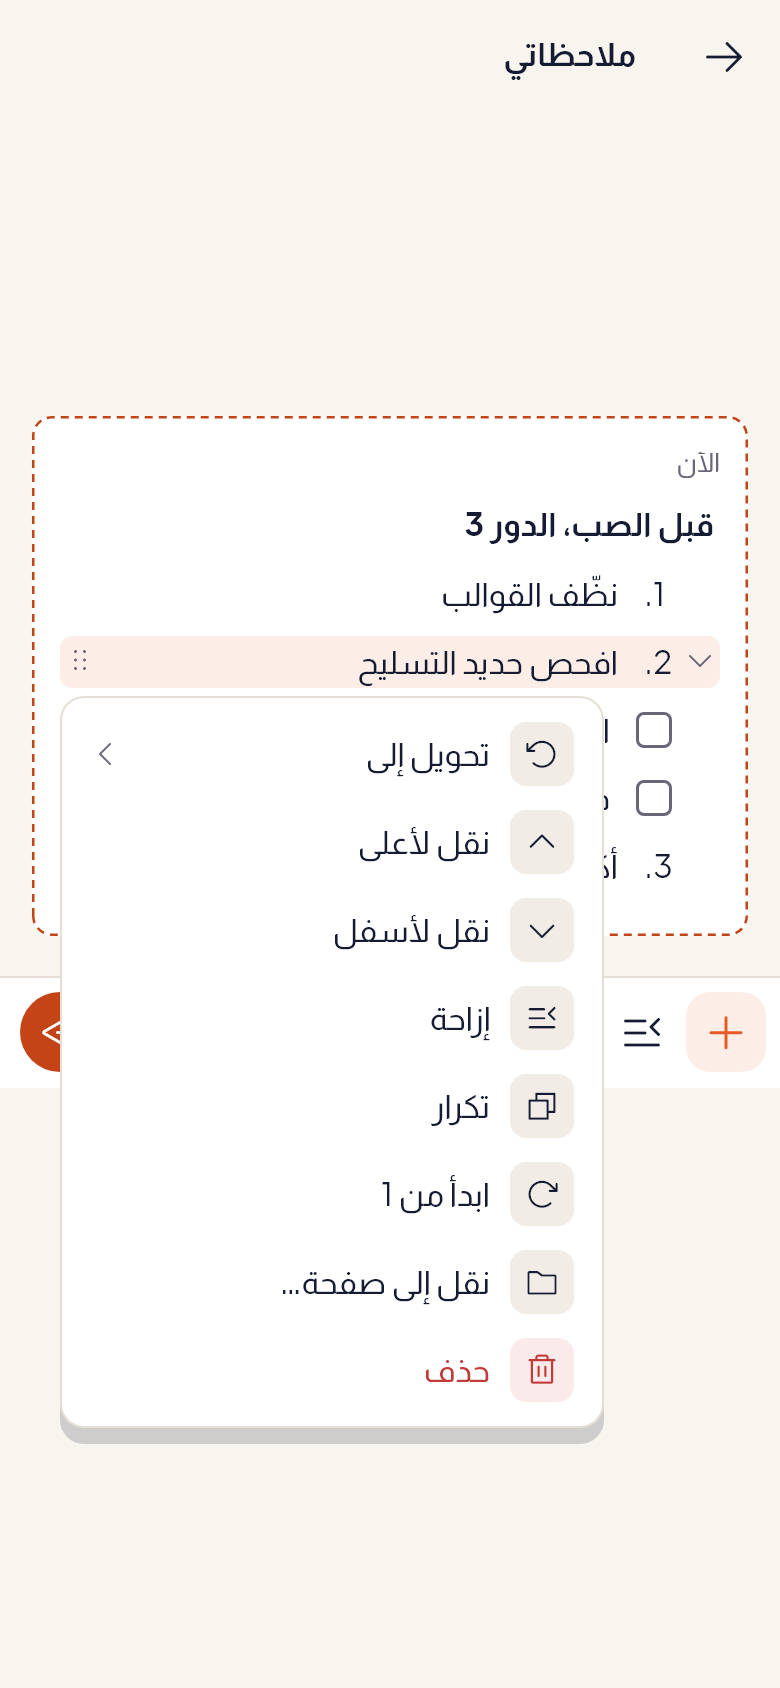
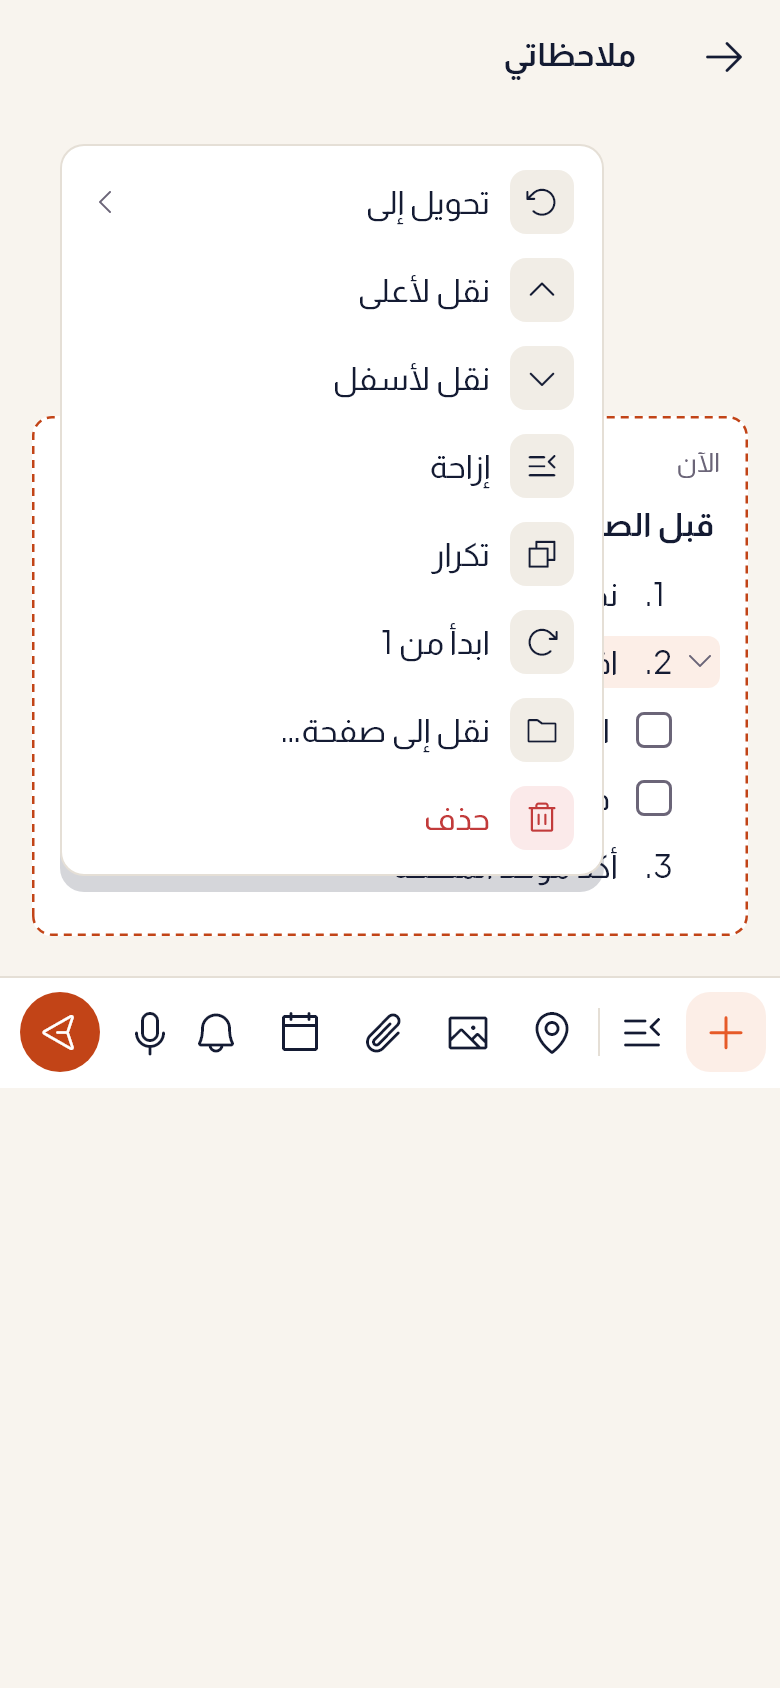
Review 100 bugs: refused entries come back as a new Draft; screenshot tests on the new rules (NBY1, NBY2, NBW5 re-shot, before/after); handoff and progress

diff --git a/test_screens/pg_test.dart b/test_screens/pg_test.dart
@@ -9,7 +9,6 @@ import 'dart:convert';
 
 import 'package:buildvibes/data/models/post_page.dart';
 import 'package:buildvibes/features/notebook/note_draft.dart';
-import 'package:buildvibes/features/notebook/note_page_editor.dart';
 import 'package:flutter/material.dart';
 import 'package:flutter_test/flutter_test.dart';
 import 'package:go_router/go_router.dart';
@@ -87,12 +86,43 @@ NoteDraft _pour(String lang) {
   );
 }
 
-/// The cursor at the end of the last line, as the keyboard puts it there.
-Future<void> _cursorLast(WidgetTester tester) async {
-  tester
-      .state<NotePageEditorState>(find.byType(NotePageEditor))
-      .focusBlock('t:pg-2');
+/// [chars] typed one by one in the field with the cursor.
+Future<void> _type(WidgetTester tester, String chars) async {
+  for (final ch in chars.characters) {
+    final field = tester
+        .widgetList<TextField>(find.byType(TextField))
+        .firstWhere((t) => t.focusNode?.hasFocus ?? false);
+    tester.testTextInput.enterText(field.controller!.text + ch);
+    await tester.pumpAndSettle();
+  }
+}
+
+/// PG2's entry typed on New entry (review 100 B3: it always starts a new
+/// entry): its title, then "1. " and two numbered lines, into Site A (the
+/// page the chip starts on).
+Future<void> _typePour(WidgetTester tester, String lang) async {
+  final pour = _pour(lang);
+  await tester.enterText(_key('note-title'), pour.title);
+  await tester.testTextInput.receiveAction(TextInputAction.next);
   await tester.pumpAndSettle();
+  await _type(tester, '1. ');
+  // The shortcut's Undo bar goes before the shot.
+  ScaffoldMessenger.of(
+    tester.element(find.byType(Scaffold).first),
+  ).removeCurrentSnackBar();
+  for (final (i, b) in pour.blocks.indexed) {
+    final field = tester
+        .widgetList<TextField>(find.byType(TextField))
+        .firstWhere((t) => t.focusNode?.hasFocus ?? false);
+    tester.testTextInput.enterText(
+      field.controller!.text + (b as PageNumbered).text,
+    );
+    await tester.pumpAndSettle();
+    if (i < pour.blocks.length - 1) {
+      await tester.testTextInput.receiveAction(TextInputAction.next);
+      await tester.pumpAndSettle();
+    }
+  }
 }
 
 void main() {
@@ -107,26 +137,14 @@ void main() {
     testWidgets('PG2 writing an entry, the page chip under it [$lang]', (
       tester,
     ) async {
-      await _open(
-        tester,
-        lang,
-        '/notebook/write',
-        draft: _pour(lang),
-        keyboard: true,
-      );
-      await _cursorLast(tester);
+      await _open(tester, lang, '/notebook/write', keyboard: true);
+      await _typePour(tester, lang);
       await _snap(tester, 'PG2-writing-chip', lang);
     });
 
     testWidgets('PG3 the page picker from the chip [$lang]', (tester) async {
-      await _open(
-        tester,
-        lang,
-        '/notebook/write',
-        draft: _pour(lang),
-        keyboard: true,
-      );
-      await _cursorLast(tester);
+      await _open(tester, lang, '/notebook/write', keyboard: true);
+      await _typePour(tester, lang);
       await _tap(tester, _key('note-page-chip'));
       await _snap(tester, 'PG3-page-picker', lang);
     });

diff --git a/lib/features/notebook/notebook_page_screen.dart b/lib/features/notebook/notebook_page_screen.dart
@@ -1285,15 +1285,15 @@ class _NotebookPageScreenState extends ConsumerState<NotebookPageScreen> {
       if (lost == null) return;
       ref.read(noteRefusedProvider.notifier).seen();
       _toast(l10n.notebookCouldntKeep);
-      if (ref.read(noteDraftProvider) == null) {
-        unawaited(
-          _drafts.put(
-            NoteDraft.of(
-              lost,
-            ).copyWith(photos: const [], files: const [], location: () => null),
-          ),
-        );
-      }
+      final back = NoteDraft.back(
+        lost,
+      ).copyWith(photos: const [], files: const [], location: () => null);
+      // Its own Draft card; beside the one in hand if there is one (B3).
+      unawaited(
+        ref.read(noteDraftProvider) == null
+            ? _drafts.put(back)
+            : ref.read(parkedDraftsProvider.notifier).keep(back),
+      );
     });
     final page = data.page(widget.pageId ?? draft?.intoPage ?? data.latest?.id);
     if (page != null && widget.pageId != null && notebook.hasValue) {

diff --git a/test/features/notebook/note_page_test.dart b/test/features/notebook/note_page_test.dart
@@ -744,13 +744,13 @@ void main() {
       final app = await _open(tester, lang, notes: [n.yesterday()]);
       await _tap(tester, _key('note-note-yesterday'));
       await tester.enterText(_key('note-title'), 'Door schedule');
-      await _back(tester);
-      // Pinned (another phone, or the menu) while the edit waits.
+      await tester.pumpAndSettle();
+      // Pinned (another phone) while the edit is open; Back saves it in
+      // place (review 100 B2).
       final notebook = _container(tester).read(notebookProvider.notifier);
       await notebook.pin(n.yesterday(), on: true);
       await tester.pumpAndSettle();
-      await _tap(tester, _key('note-draft'));
-      await _tap(tester, _key('writing-post'));
+      await _back(tester);
       expect(app.notebook.kept['note-yesterday']!.pinned, isTrue);
       expect(app.notebook.kept['note-yesterday']!.title, 'Door schedule');
     });

diff --git a/lib/features/notebook/note_draft.dart b/lib/features/notebook/note_draft.dart
@@ -36,10 +36,15 @@ class NoteDraft {
   });
 
   /// An edit of [note], filled with what it says.
-  factory NoteDraft.of(Note note) => NoteDraft(
+  factory NoteDraft.of(Note note) => NoteDraft.back(note, editing: note);
+
+  /// [note]'s words as a Draft of a new entry (review 100 B2): a note the
+  /// server refused comes back this way, its own card at the top of its
+  /// page.
+  factory NoteDraft.back(Note note, {Note? editing}) => NoteDraft(
     id: note.id,
     startedAt: note.createdAt,
-    editing: note,
+    editing: editing,
     title: note.pageTitle,
     blocks: note.pageBlocks,
     dueAt: note.dueAt,

diff --git a/test_screens/f107_test.dart b/test_screens/f107_test.dart
@@ -145,7 +145,7 @@ Future<void> _open(WidgetTester tester, String lang, NoteDraft draft) async {
   // The Draft, opened again from the bar's Note (a tap on the slip's
   // text would show the selection handle): being written, the keyboard on
   // its last line.
-  await _tap(tester, _key('page-write'));
+  await _tap(tester, _key('note-draft'));
 }
 
 void main() {

diff --git a/test/features/notebook/note_levels_test.dart b/test/features/notebook/note_levels_test.dart
@@ -59,7 +59,7 @@ Future<void> _open(
     tester.element(find.byType(Navigator).first),
   ).push('/notebook/pages/page-my-notes');
   await tester.pumpAndSettle();
-  await _tap(tester, _key('page-write'));
+  await _tap(tester, _key('note-draft'));
 }
 
 List<PageBlock> _blocks(WidgetTester tester) => ProviderScope.containerOf(

diff --git a/test/features/notebook/note_writing_rules_test.dart b/test/features/notebook/note_writing_rules_test.dart
@@ -59,7 +59,7 @@ Future<void> _open(
     tester.element(find.byType(Navigator).first),
   ).push('/notebook/pages/page-my-notes');
   await tester.pumpAndSettle();
-  await _tap(tester, _key('page-write'));
+  await _tap(tester, _key('note-draft'));
 }
 
 List<PageBlock> _blocks(WidgetTester tester) => ProviderScope.containerOf(

diff --git a/test_screens/f108_test.dart b/test_screens/f108_test.dart
@@ -111,7 +111,7 @@ Future<void> _open(
     tester.element(find.byType(Navigator).first),
   ).push('/notebook/pages/page-my-notes');
   await tester.pumpAndSettle();
-  await _tap(tester, _key('page-write'));
+  await _tap(tester, _key('note-draft'));
 }
 
 /// The cursor at the end of line [n] (as the keyboard puts it there; a

diff --git a/test_screens/nby_test.dart b/test_screens/nby_test.dart
@@ -92,7 +92,7 @@ Future<void> _open(
     tester.element(find.byType(Navigator).first),
   ).push('/notebook/pages/page-my-notes');
   await tester.pumpAndSettle();
-  await _tap(tester, _key('page-write'));
+  await _tap(tester, _key('note-draft'));
 }
 
 NotePageEditorState _editor(WidgetTester tester) =>

diff --git a/docs/handoff.md b/docs/handoff.md
@@ -2,6 +2,60 @@
 
 Where the work stopped, for whichever place picks it up next: the founder's PC, a cloud session, or the lead's chat in the Claude project. Each session rewrites this file before it stops. The full history stays in `progress.md`.
 
+## PC update: 26 Oct 2026, 17:00 Kuwait — review 100 bugs B1–B5 on `claude/r100-bugs` (from `slice2-app` 2371559); stopped for the lead
+
+**Standing rule (review 74):** nothing but the BuildVibes build goes on the founder's phone without his yes in chat.
+
+- **Branch `claude/r100-bugs` is pushed.** It is not merged, not live, and not installed. No database change. The redesign (review 100, Parts 3–8) is not built.
+- **The bugs, each with its cause:**
+  - **B1 — the keyboard dropped between lines.**
+    - Cause: a line's field handled Enter in `onSubmitted` but had no `onEditingComplete`. Flutter's default for "next" first handed the focus to the next focusable thing, and the new line took it only a frame later (`focusBlockLater`).
+    - Fix: Enter keeps the focus, and the next line (or, on Backspace, the line above) takes it at once (`focusBlockNow`).
+    - Test: the focus is never outside a line's field, and the keyboard is never hidden. It fails without the fix.
+  - **B2 — a saved entry showed twice after Back.**
+    - Cause: Back from an edit kept the edit as the Draft, beside the saved entry.
+    - Fix:
+      - Back from a saved entry saves it in place when it changed, with "Saved · Undo" for 5 s; Undo puts back the entry as it was opened;
+      - with no change, nothing is saved or shown;
+      - an edit left open when the app closed is saved in place when the page opens again;
+      - a refused entry comes back as a new-entry Draft;
+      - a Draft's ⋯ has Discard, with Undo.
+  - **B3 — "Write in this page" opened an old draft.**
+    - Cause: there was one draft per account, and Write reopened it.
+    - Fix:
+      - Write always starts a new entry;
+      - each unsent Draft is kept as its own card at the top of its page (`parkedDraftsProvider`, `notebook_drafts:<user>`);
+      - a tap on a card goes on with that Draft;
+      - New entry on the pages list does the same.
+  - **B4 — the line menu went under the keyboard.**
+    - Cause: the popover allowed itself over the keyboard (it used only the safe-area insets), and so did the editor's "make room" scroll.
+    - Fix:
+      - the area a card may stand in is the screen minus the top bar and the keyboard, with 8 of margin (`visibleTop`, `visibleBottom`);
+      - a card opens under the line if it fits, else over it;
+      - if it fits neither way, the line menu first scrolls the page up;
+      - a card taller than the room scrolls inside it.
+    - Test: the menu ends above the keyboard. It fails without the fix (772 > 544).
+  - **B5 — ⋯ was slow and opened two menus.**
+    - Cause: ⋯ waited for the Spaces list to load before showing anything, and nothing stopped a second one.
+    - Fix:
+      - the menu opens at once and its Spaces come in as they load;
+      - one menu at a time (entry, page and Draft menus);
+      - Back closes the page picker, the line menu or the "/" card first.
+- **Tests:** `test/features/notebook/note_bugs_test.dart` (20, EN and AR). Older tests were moved to the new rules:
+  - stored Drafts are continued from their card;
+  - B14 now pins during the edit, then Back.
+- **Shots:**
+  - PG2 and PG3 are now typed on New entry; the results are identical to before.
+  - 6 shots changed, as the fixes mean; before/after in `docs/screens/r100/before-after/`:
+    - NBY1: the "/" card opens over the line, since the keyboard is under it;
+    - NBY2: the line menu opens over the line;
+    - NBW5: the Draft card has its ⋯.
+- **Checks:**
+  - `flutter analyze`: no issues;
+  - `flutter test`: 2,120 pass;
+  - `flutter test test_screens`: 426 pass.
+- **Who has which branch:** PC has `claude/r100-bugs` (worktree `BuildVibes-r100`) and `slice2-app` (worktree `BuildVibes-slice1`).
+
 ## PC update: 26 Oct 2026, 14:15 Kuwait — review 99A in `slice2-app`; migration 47 live; build 640 on the founder's phone
 
 **Standing rule (review 74):** nothing but the BuildVibes build goes on the founder's phone without his yes in chat.

diff --git a/docs/progress.md b/docs/progress.md
@@ -666,6 +666,14 @@ What is set on the live project today. The source of truth is `supabase/config.t
     - signed out, `search_notebook` can't be used.
   - **Build 640** is on the founder's phone.
 
+- **26 Oct, review 100 bugs B1–B5** (founder's test of build 640; branch `claude/r100-bugs`; no database change; not merged):
+  - B1: the keyboard stays up between lines (Enter keeps the focus, the next line takes it at once).
+  - B2: a saved entry is saved in place on Back ("Saved · Undo"); Drafts are only for new entries; a Draft's ⋯ has Discard.
+  - B3: "Write in this page" always starts a new entry, and each unsent Draft is its own card.
+  - B4: menus stand inside what the top bar and the keyboard leave.
+  - B5: ⋯ opens at once, one menu at a time; Back closes a card first.
+  - Checks: analyze clean; 2,120 app tests; 426 screenshot checks (NBY1, NBY2 and NBW5 changed as the fixes mean).
+
 ## Before the pilot (week 11)
 - Delete the test accounts push-test-a, push-test-b, push-test-c and "Delete Test" (the S13 test account on the founder's Gmail alias), and their test post, with the admin API.
 - With the founder's yes: deploy `account-purge` with `ACCOUNT_PURGE_SECRET`, and run `supabase/ops/account_cron.sql` (account purge and the 12-month report cleanup).
